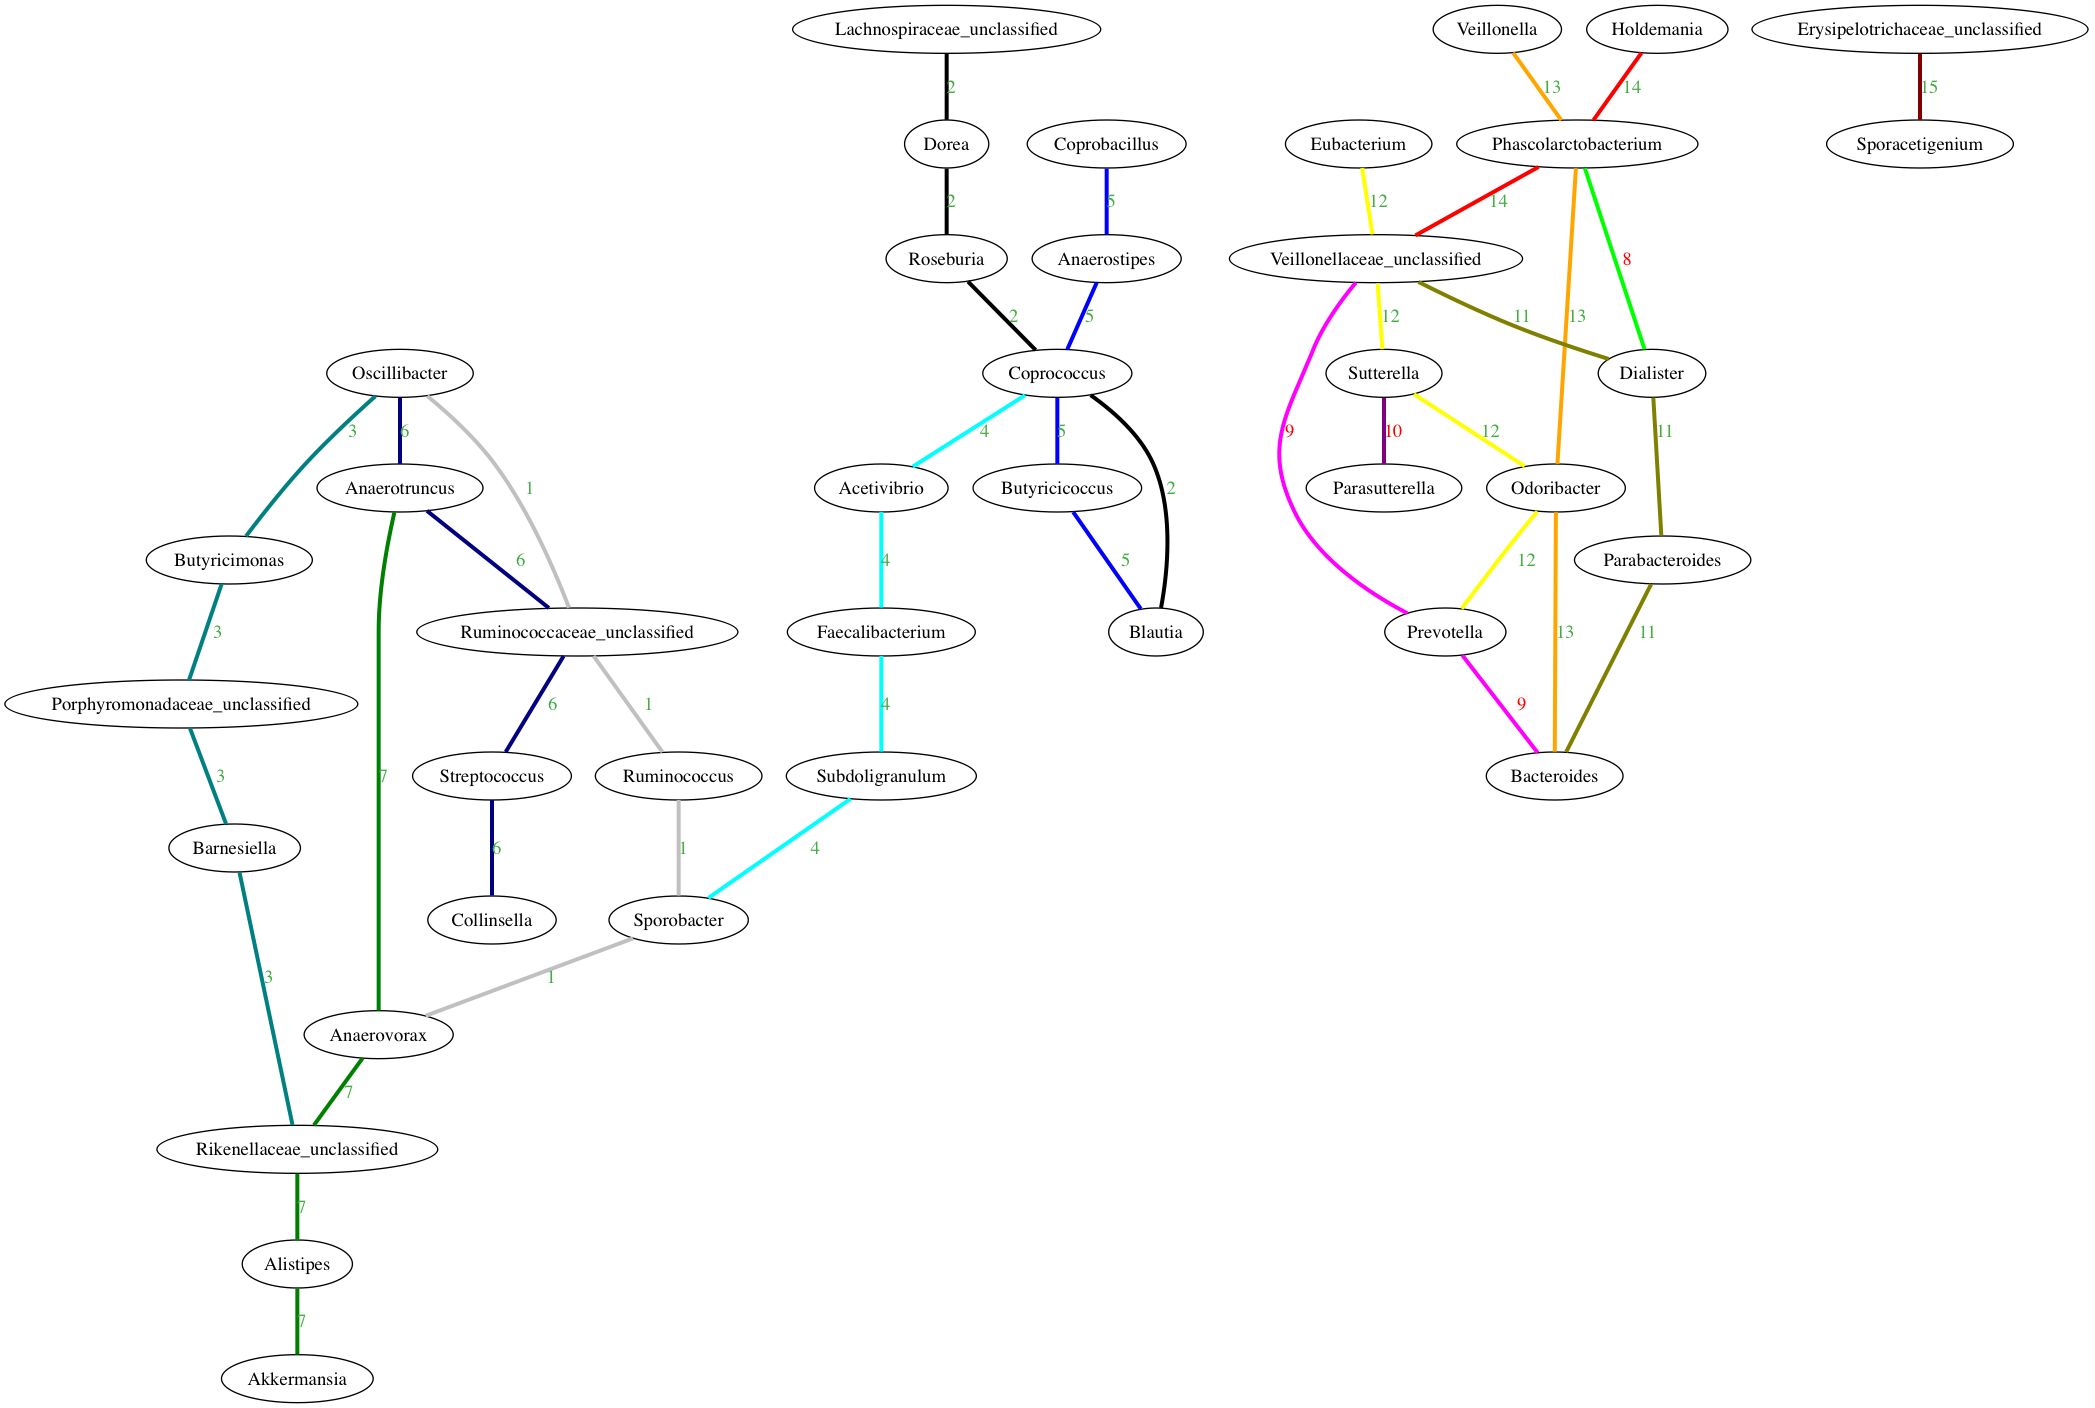
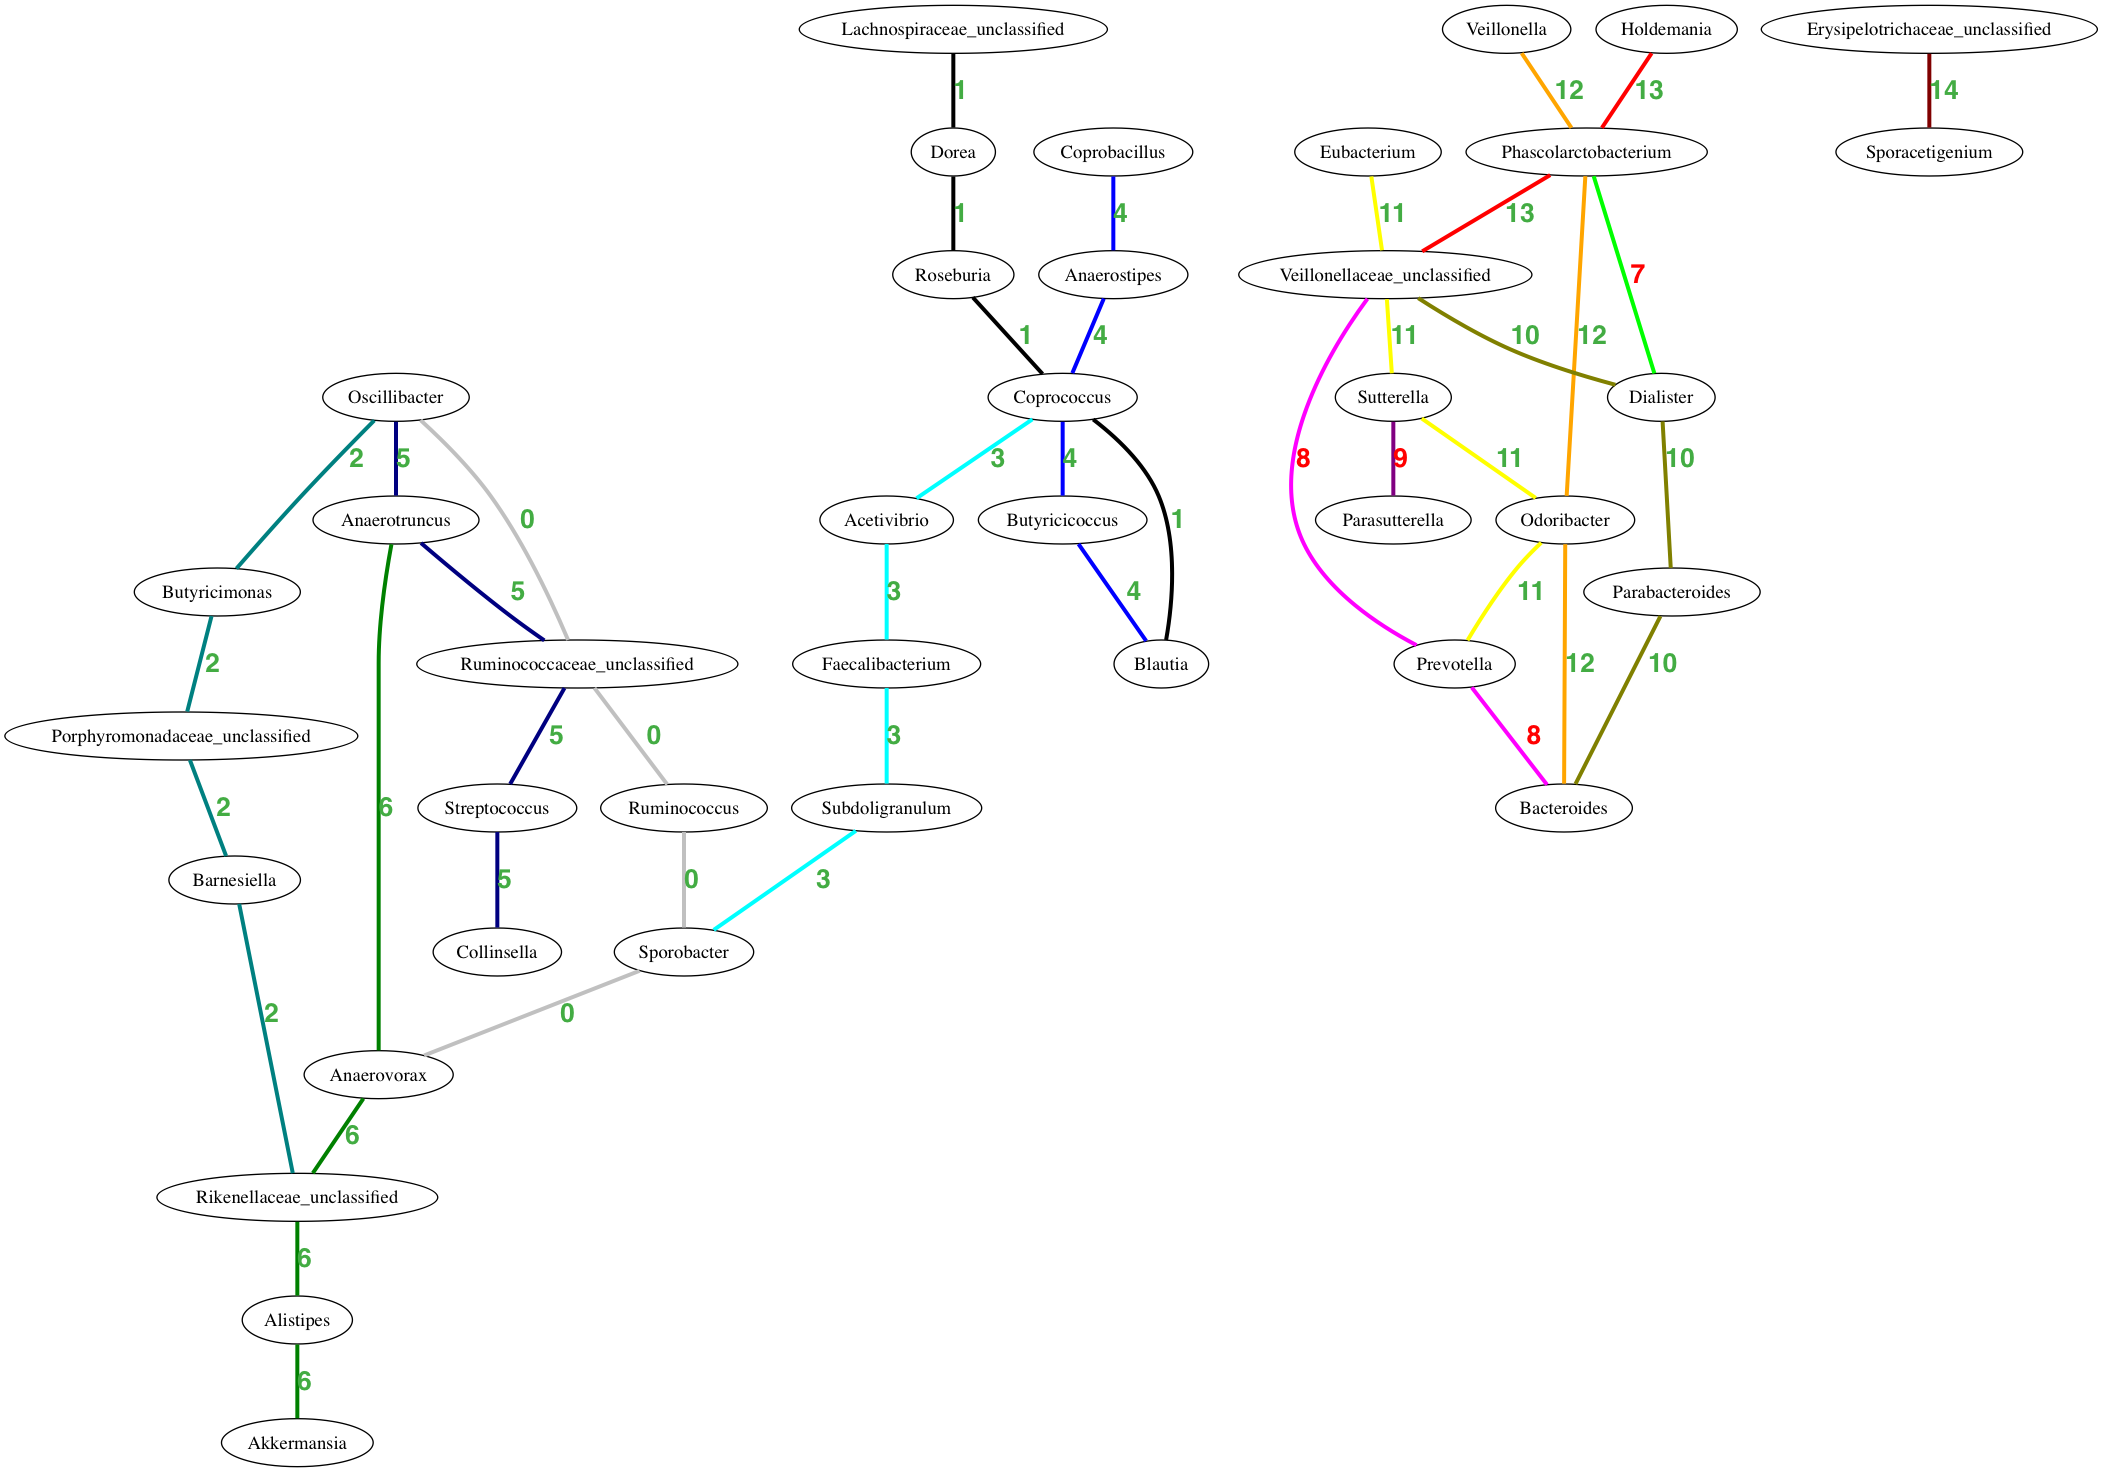
Update Faust results comparison plots

Changed region(s): [[0.031, 0.0, 0.5895, 1.0], [0.5895, 0.0, 0.9928, 0.5625], [0.0931, 0.5625, 0.1551, 0.625]]

diff --git a/bin/preprocessing/tree.py b/bin/preprocessing/tree.py
@@ -614,7 +614,7 @@ class Tree(object):
             if not is_cooccurrence_pattern:
                 label_color = 'red'
 
-            graph += '\tedge [color=\"%s\", penwidth=3, label="%d", fontcolor=\"%s\"]\n' % (edge_color, index+1, label_color)
+            graph += '\tedge [color=\"%s\", penwidth=3, label="%d", fontcolor=\"%s\", fontname=\"Helvetica bold\", fontsize=20]\n' % (edge_color, index, label_color)
             graph += '\t' + self.simple_node_name(pattern[0])
             for item in pattern[1:]:
                 graph += ' -- %s' % self.simple_node_name(item)

diff --git a/bin/plots/faust_result_discretized.py b/bin/plots/faust_result_discretized.py
@@ -155,7 +155,7 @@ def plot_faust_relationships(relative_values=True, remove_highest=0):
 
 
         # Save the figure to file
-        file_name = '../../plots/plots/stool_normalized_clade/' +str(faust_result.id) + from_clade + '---' + to_clade + '_' + str(faust_result.direction)
+        file_name = '../../plots/plots/stool_normalized_maxent_faust_results/' +str(faust_result.id) + from_clade + '---' + to_clade + '_' + str(faust_result.direction)
         file_name = os.path.join(dir, file_name)
         savefig(file_name)
         close()

diff --git a/bin/scratchpad.py b/bin/scratchpad.py
@@ -16,12 +16,12 @@ from plots.mtv_results import plot_run_results
 
 # plot_run_results('../experiments/4/')
 # plot_run_results('../experiments/2a/')
-# plot_run_results('../experiments/tmp/')
-# exit()
+plot_run_results('../experiments/backup/')
+exit()
 
 from plots.faust_result_discretized import plot_faust_relationships
-# plot_faust_relationships(remove_highest=50)
-# exit()
+plot_faust_relationships()
+exit()
 
 
 def write_dataset_to_experiment(file_name, ds):
